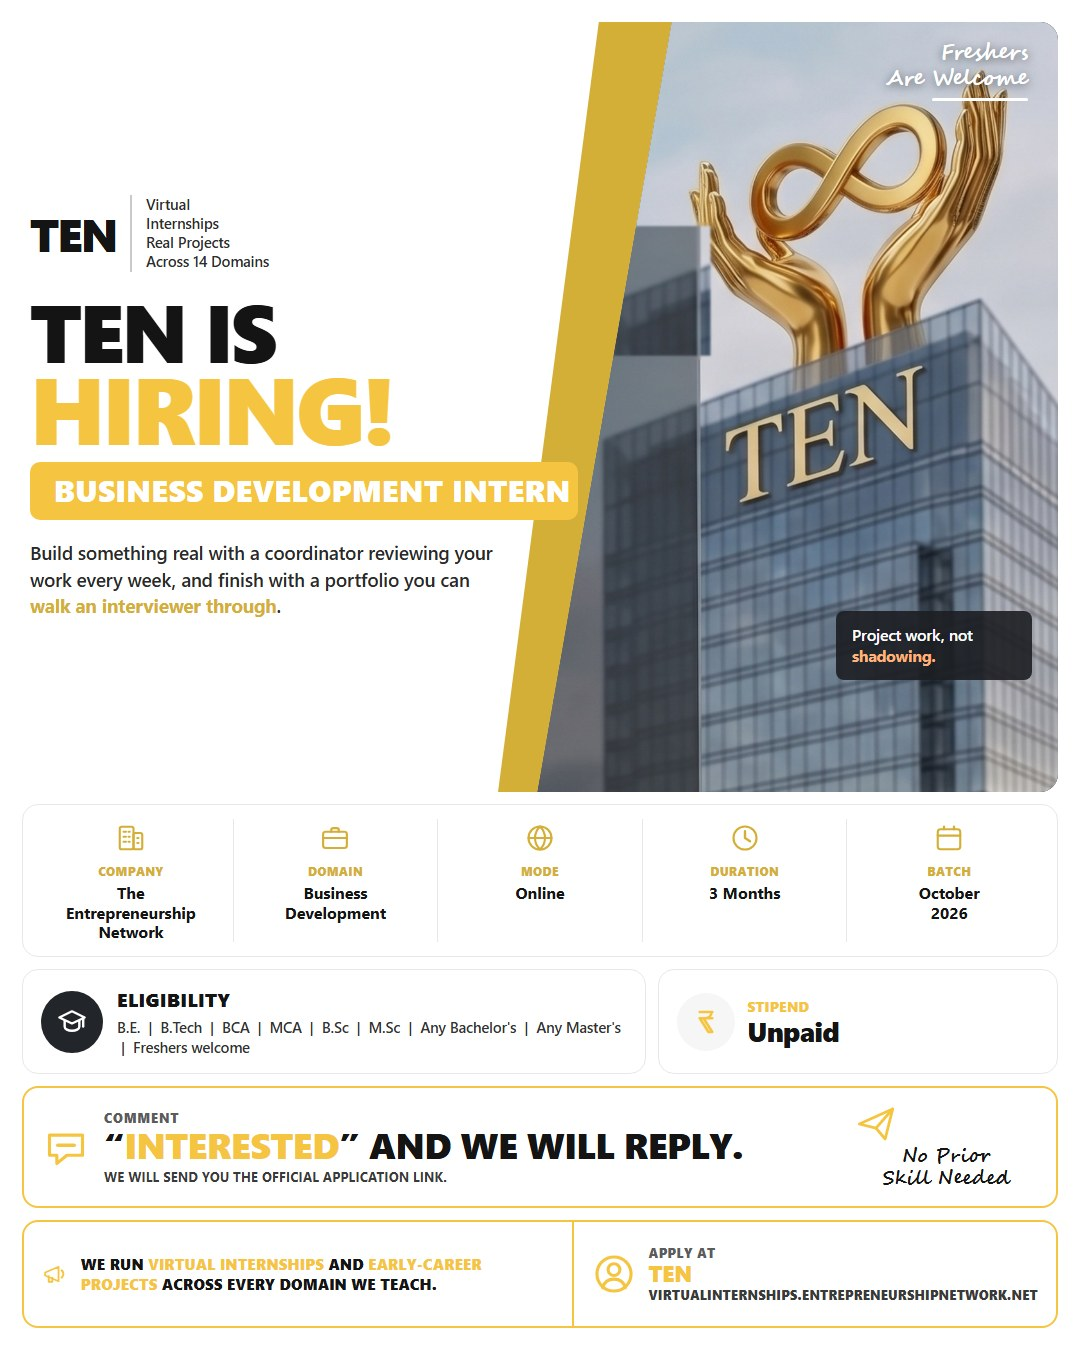
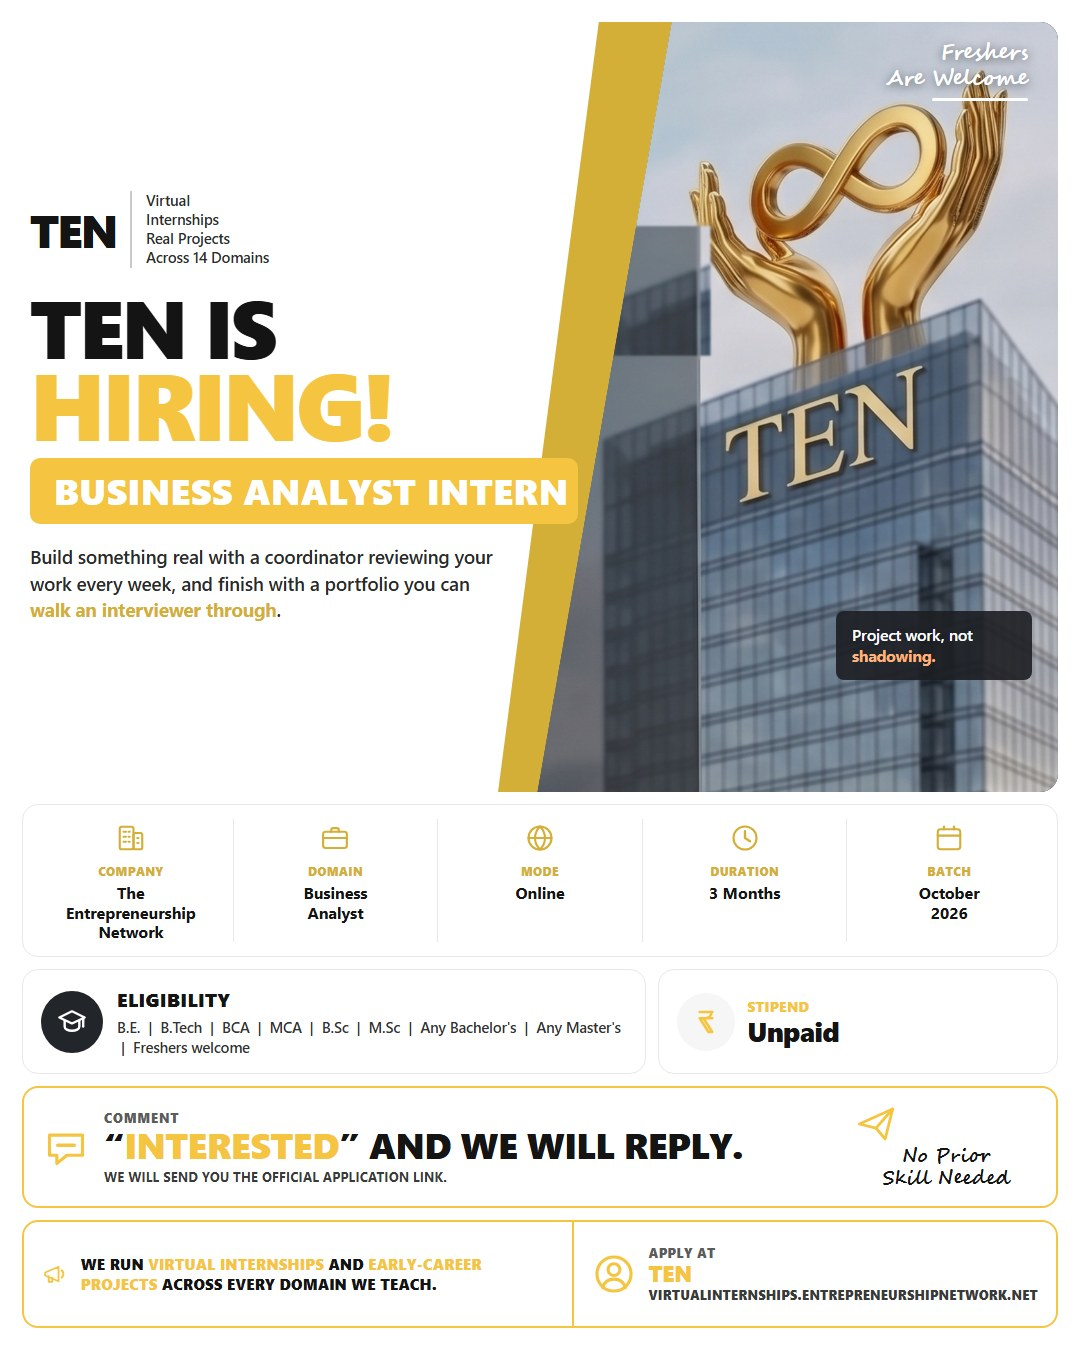
Name the domains the way the site names them
Five of the fourteen were carrying names the public domains page does not use:
MERN Stack Development, Flutter Development, Space, Business Development and
HR. The site calls them MERN Stack, Flutter, Space Research, Business Analyst
and HR Management, and the site is what a student reads before they click
apply — a poster advertising a domain under a name that does not appear on the
page it links to is a poster pointing at a door that is not there.

Roles move with the names. The poster prints the role in its badge and the name
in its Domain column, so leaving the roles alone would have put BUSINESS
DEVELOPMENT INTERN above a column reading Business Analyst. The same goes for
the #BusinessDevelopment hashtag, which is now #BusinessAnalyst.

Slugs do not move. They are filenames and stable identity, not display text, so
business.jpg stays business.jpg and nothing has to be renamed on disk or
re-pointed in openings.js.

Ten plates re-rendered — the five domains in both variants. The other nine came
out byte-identical, which is what a deterministic renderer is for.

Nothing else changed: the duration stays 3 Months, the project lines stay as
they were, and the post wording is untouched.

Changed region(s): [[0.0306, 0.1244, 0.55, 0.4667], [0.275, 0.6533, 0.3667, 0.6844]]

diff --git a/services/v2/linkedin/openings.js b/services/v2/linkedin/openings.js
@@ -83,8 +83,8 @@ const DOMAINS = [
     ],
   },
   {
-    slug: 'business', name: 'Business Development', role: 'Business Development Intern',
-    track: 'business', tag: '#BusinessDevelopment',
+    slug: 'business', name: 'Business Analyst', role: 'Business Analyst Intern',
+    track: 'business', tag: '#BusinessAnalyst',
     builds: [
       'Build a 300-company prospect database in HubSpot, segmented by ideal customer profile',
       'Run a four-touch cold email sequence to 150 prospects and report the reply rates',
@@ -92,7 +92,7 @@ const DOMAINS = [
     ],
   },
   {
-    slug: 'mern', name: 'MERN Stack Development', role: 'MERN Stack Development Intern',
+    slug: 'mern', name: 'MERN Stack', role: 'MERN Stack Intern',
     track: 'tech', tag: '#MERN',
     builds: [
       'A Socket.io chat app with rooms, online presence and message history in MongoDB',
@@ -101,7 +101,7 @@ const DOMAINS = [
     ],
   },
   {
-    slug: 'hr', name: 'HR', role: 'Human Resources Intern',
+    slug: 'hr', name: 'HR Management', role: 'HR Management Intern',
     track: 'hr', tag: '#HumanResources',
     builds: [
       'Source, screen and schedule for one live role, then report the hiring funnel',
@@ -128,7 +128,7 @@ const DOMAINS = [
     ],
   },
   {
-    slug: 'space', name: 'Space', role: 'Space Technology Intern',
+    slug: 'space', name: 'Space Research', role: 'Space Research Intern',
     track: 'space', tag: '#SpaceTech',
     builds: [
       'A pass planner that turns live TLE data into antenna pointing and contact windows',
@@ -155,7 +155,7 @@ const DOMAINS = [
     ],
   },
   {
-    slug: 'flutter', name: 'Flutter Development', role: 'Flutter Development Intern',
+    slug: 'flutter', name: 'Flutter', role: 'Flutter Intern',
     track: 'tech', tag: '#Flutter',
     builds: [
       'An offline-first Flutter expense tracker that syncs to Firestore on reconnect',

diff --git a/poster-kit/build_domain_posters.py b/poster-kit/build_domain_posters.py
@@ -51,15 +51,15 @@ OUT = REPO / "public" / "assets" / "linkedin-posters"
 DOMAINS = [
     ("Python Development",     "python",   "Python Development Intern"),
     ("Web Development",        "web",      "Web Development Intern"),
-    ("Business Development",   "business", "Business Development Intern"),
-    ("MERN Stack Development", "mern",     "MERN Stack Development Intern"),
-    ("HR",                     "hr",       "Human Resources Intern"),
+    ("Business Analyst",       "business", "Business Analyst Intern"),
+    ("MERN Stack",             "mern",     "MERN Stack Intern"),
+    ("HR Management",          "hr",       "HR Management Intern"),
     ("Data Science",           "datasci",  "Data Science Intern"),
     ("Java Development",       "java",     "Java Development Intern"),
-    ("Space",                  "space",    "Space Technology Intern"),
+    ("Space Research",         "space",    "Space Research Intern"),
     ("Cyber Security",         "cyber",    "Cyber Security Intern"),
     ("Venture Capital",        "venture",  "Venture Capital Intern"),
-    ("Flutter Development",    "flutter",  "Flutter Development Intern"),
+    ("Flutter",                "flutter",  "Flutter Intern"),
     ("Software Engineering",   "softeng",  "Software Engineering Intern"),
     ("DevOps with AWS",        "devops",   "DevOps (AWS) Intern"),
     ("Vibe Coding",            "vibe",     "Vibe Coding Intern"),
